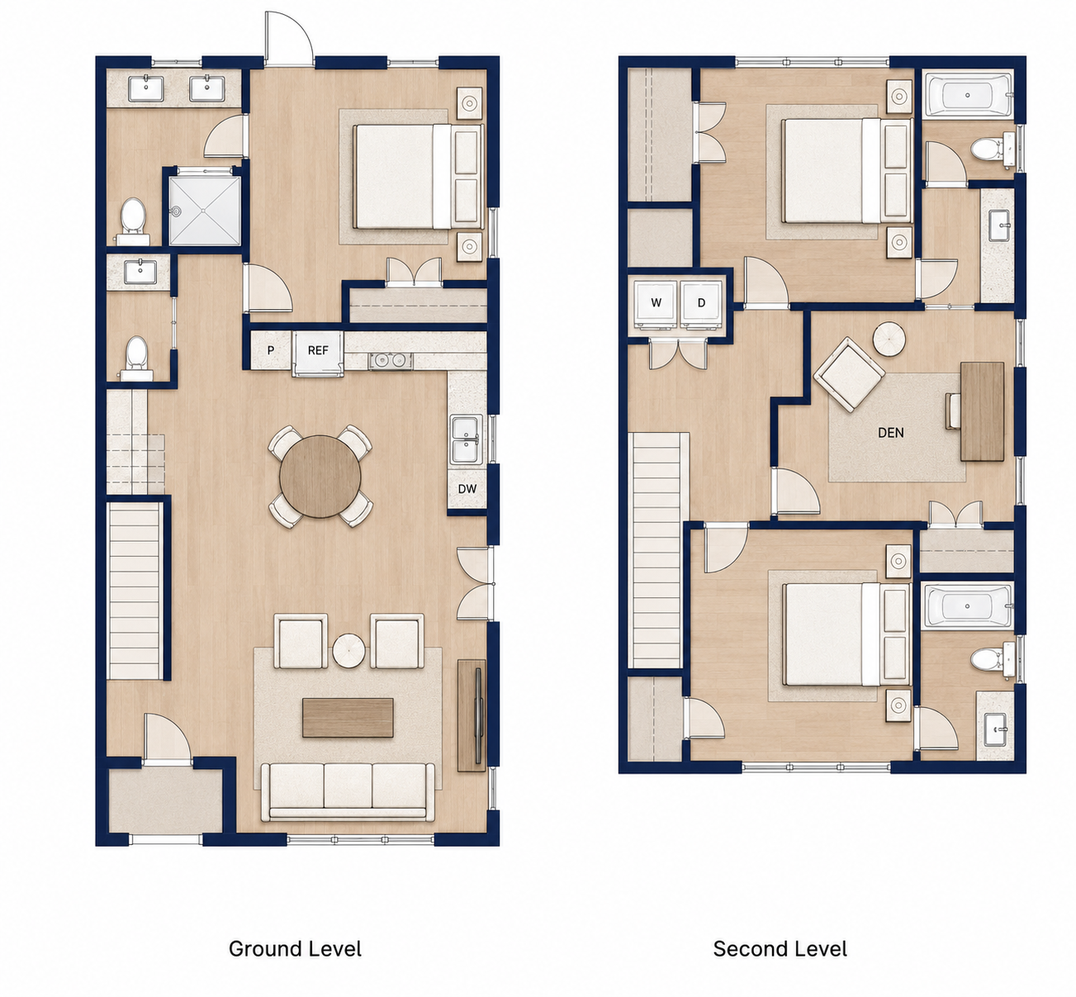
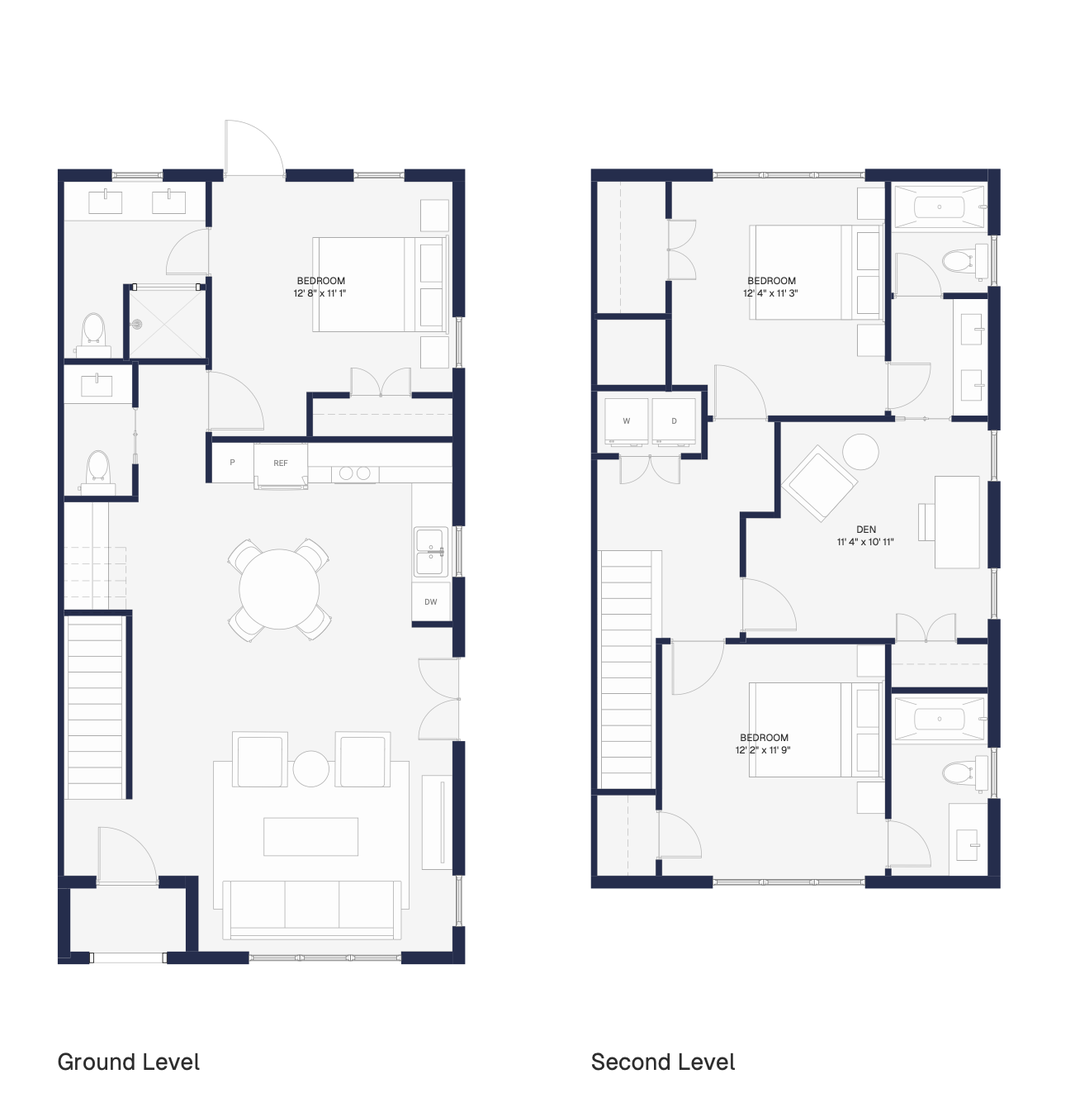
Replace all floor plans with new designs; add illustration disclaimers
- Bragg Brownstones: new Ground/Main/Upper level plans (watermark cropped,
  converted to JPEG); disclaimer added below each floor plan slide
- Judd Cottages: new 2BR/3BR/4BR plans for all levels (Cottage B/A/C);
  watermark cropped, converted to JPEG; disclaimer added
- Richland Village Phase 3: new 2BR/3BR/4BR combined floor plan images;
  disclaimer added below each plan
- Floorplan detail pages (Cotswold/Windsor/Kensington): restructured to
  show combined floor plans; Ashford/Pemberton: disclaimer added

diff --git a/judd-cottages.html b/judd-cottages.html
@@ -29,7 +29,7 @@
 .jFpLevel{display:none;justify-content:center}
 .jFpLevel.active{display:flex}
 .jFpLevel img{max-width:100%;max-height:500px;object-fit:contain}
-</style><style>.floatWidget{position:fixed;right:22px;bottom:22px;z-index:300;display:flex;flex-direction:column;align-items:flex-end;gap:8px}.fwToggle{width:36px;height:36px;border-radius:10px;background:#fff;border:1px solid #ddd;box-shadow:0 2px 10px rgba(0,0,0,.14);display:flex;align-items:center;justify-content:center;cursor:pointer;transition:background .15s}.fwToggle:hover{background:#f5f2ee}.fwToggle svg{transition:transform .28s}.fwToggle.open svg{transform:rotate(180deg)}.floatWidgetPanel{background:#fff;border-radius:16px;box-shadow:0 10px 40px rgba(0,0,0,.18),0 2px 8px rgba(0,0,0,.08);width:236px;overflow:hidden;transform-origin:bottom right;transition:opacity .22s ease,transform .22s ease}.floatWidgetPanel.hidden{opacity:0;pointer-events:none;transform:scale(.93) translateY(10px)}.fwBtnGroup{display:flex;flex-direction:column}.fwBtn{display:flex;align-items:center;gap:12px;padding:13px 16px;background:#fff;border:none;border-top:1px solid #f0ece5;cursor:pointer;font-family:Inter,system-ui,sans-serif;text-align:left;width:100%;text-decoration:none;transition:background .15s;box-sizing:border-box}.fwBtn:first-child{border-top:none}.fwBtn:hover{background:#faf8f5}.fwBtn.chat{background:#d96f20;border-top:none}.fwBtn.chat:hover{background:#c46118}.fwIcon{width:36px;height:36px;border-radius:9px;display:flex;align-items:center;justify-content:center;flex-shrink:0}.fwBtn.chat .fwIcon{background:rgba(255,255,255,.22);color:#fff}.fwBtn.tour .fwIcon{background:#f0ece5;color:#d96f20}.fwBtn.call .fwIcon{background:#f0ece5;color:#061d2b}.fwBtnText{flex:1;line-height:1.25}.fwBtnText strong{display:block;font-size:13.5px;font-weight:700;color:#061d2b}.fwBtn.chat .fwBtnText strong{color:#fff}.fwBtnText em{display:block;font-size:11.5px;font-style:normal;color:#888;margin-top:1px}.fwBtn.chat .fwBtnText em{color:rgba(255,255,255,.75)}.fwArrow{font-size:17px;color:#bbb;margin-left:4px;line-height:1}.fwBtn.chat .fwArrow{color:rgba(255,255,255,.7)}</style>
+.fpDisclaimer{font-size:11px;color:#9aa3ab;text-align:center;margin:8px 0 0;font-style:italic;letter-spacing:.02em}</style><style>.floatWidget{position:fixed;right:22px;bottom:22px;z-index:300;display:flex;flex-direction:column;align-items:flex-end;gap:8px}.fwToggle{width:36px;height:36px;border-radius:10px;background:#fff;border:1px solid #ddd;box-shadow:0 2px 10px rgba(0,0,0,.14);display:flex;align-items:center;justify-content:center;cursor:pointer;transition:background .15s}.fwToggle:hover{background:#f5f2ee}.fwToggle svg{transition:transform .28s}.fwToggle.open svg{transform:rotate(180deg)}.floatWidgetPanel{background:#fff;border-radius:16px;box-shadow:0 10px 40px rgba(0,0,0,.18),0 2px 8px rgba(0,0,0,.08);width:236px;overflow:hidden;transform-origin:bottom right;transition:opacity .22s ease,transform .22s ease}.floatWidgetPanel.hidden{opacity:0;pointer-events:none;transform:scale(.93) translateY(10px)}.fwBtnGroup{display:flex;flex-direction:column}.fwBtn{display:flex;align-items:center;gap:12px;padding:13px 16px;background:#fff;border:none;border-top:1px solid #f0ece5;cursor:pointer;font-family:Inter,system-ui,sans-serif;text-align:left;width:100%;text-decoration:none;transition:background .15s;box-sizing:border-box}.fwBtn:first-child{border-top:none}.fwBtn:hover{background:#faf8f5}.fwBtn.chat{background:#d96f20;border-top:none}.fwBtn.chat:hover{background:#c46118}.fwIcon{width:36px;height:36px;border-radius:9px;display:flex;align-items:center;justify-content:center;flex-shrink:0}.fwBtn.chat .fwIcon{background:rgba(255,255,255,.22);color:#fff}.fwBtn.tour .fwIcon{background:#f0ece5;color:#d96f20}.fwBtn.call .fwIcon{background:#f0ece5;color:#061d2b}.fwBtnText{flex:1;line-height:1.25}.fwBtnText strong{display:block;font-size:13.5px;font-weight:700;color:#061d2b}.fwBtn.chat .fwBtnText strong{color:#fff}.fwBtnText em{display:block;font-size:11.5px;font-style:normal;color:#888;margin-top:1px}.fwBtn.chat .fwBtnText em{color:rgba(255,255,255,.75)}.fwArrow{font-size:17px;color:#bbb;margin-left:4px;line-height:1}.fwBtn.chat .fwArrow{color:rgba(255,255,255,.7)}</style>
 <style>
 /* Mobile widget — start closed */
 @media(max-width:800px){
@@ -116,8 +116,8 @@
           <button class="jFpLevelTab" data-level="1">Upper</button>
         </div>
         <div class="jFpLevels">
-          <div class="jFpLevel active"><img src="assets/judd-2bd-lower.png" alt="2 Bedroom Lower Floor"/></div>
-          <div class="jFpLevel"><img src="assets/judd-2bd-upper.png" alt="2 Bedroom Upper Floor"/></div>
+          <div class="jFpLevel active"><img src="assets/judd-2bd-lower.jpg" alt="2 Bedroom Lower Floor"/></div>
+          <div class="jFpLevel"><img src="assets/judd-2bd-upper.jpg" alt="2 Bedroom Upper Floor"/></div>
         </div>
       </div>
       <div class="jFpPlan">
@@ -126,8 +126,8 @@
           <button class="jFpLevelTab" data-level="1">Upper</button>
         </div>
         <div class="jFpLevels">
-          <div class="jFpLevel active"><img src="assets/judd-3bd-lower.png" alt="3 Bedroom Lower Floor"/></div>
-          <div class="jFpLevel"><img src="assets/judd-3bd-upper.png" alt="3 Bedroom Upper Floor"/></div>
+          <div class="jFpLevel active"><img src="assets/judd-3bd-lower.jpg" alt="3 Bedroom Lower Floor"/></div>
+          <div class="jFpLevel"><img src="assets/judd-3bd-upper.jpg" alt="3 Bedroom Upper Floor"/></div>
         </div>
       </div>
       <div class="jFpPlan">
@@ -136,12 +136,13 @@
           <button class="jFpLevelTab" data-level="1">Upper</button>
         </div>
         <div class="jFpLevels">
-          <div class="jFpLevel active"><img src="assets/judd-3bdb-lower.png" alt="4 Bedroom Lower Floor"/></div>
-          <div class="jFpLevel"><img src="assets/judd-3bdb-upper.png" alt="4 Bedroom Upper Floor"/></div>
+          <div class="jFpLevel active"><img src="assets/judd-3bdb-lower.jpg" alt="4 Bedroom Lower Floor"/></div>
+          <div class="jFpLevel"><img src="assets/judd-3bdb-upper.jpg" alt="4 Bedroom Upper Floor"/></div>
         </div>
       </div>
     </div>
   </div>
+  <p class="fpDisclaimer">For illustration purposes only.</p>
   <button class="fpCta" data-open-modal="" style="cursor:pointer;font-family:inherit">Apply Now</button>
   <script>
   (function(){

diff --git a/bragg-brownstones.html b/bragg-brownstones.html
@@ -51,7 +51,7 @@
 .commDetail span:last-child{color:#fff;font-weight:600}
 .commCardNote{margin-top:22px;padding-top:18px;border-top:1px solid rgba(255,255,255,.1);font-size:11px;color:rgba(255,255,255,.4);line-height:1.6}
 @media(max-width:860px){.commBandInner{grid-template-columns:1fr}.commCard{margin-top:0}}
-</style><style>.floatWidget{position:fixed;right:22px;bottom:22px;z-index:300;display:flex;flex-direction:column;align-items:flex-end;gap:8px}.fwToggle{width:36px;height:36px;border-radius:10px;background:#fff;border:1px solid #ddd;box-shadow:0 2px 10px rgba(0,0,0,.14);display:flex;align-items:center;justify-content:center;cursor:pointer;transition:background .15s}.fwToggle:hover{background:#f5f2ee}.fwToggle svg{transition:transform .28s}.fwToggle.open svg{transform:rotate(180deg)}.floatWidgetPanel{background:#fff;border-radius:16px;box-shadow:0 10px 40px rgba(0,0,0,.18),0 2px 8px rgba(0,0,0,.08);width:236px;overflow:hidden;transform-origin:bottom right;transition:opacity .22s ease,transform .22s ease}.floatWidgetPanel.hidden{opacity:0;pointer-events:none;transform:scale(.93) translateY(10px)}.fwBtnGroup{display:flex;flex-direction:column}.fwBtn{display:flex;align-items:center;gap:12px;padding:13px 16px;background:#fff;border:none;border-top:1px solid #f0ece5;cursor:pointer;font-family:Inter,system-ui,sans-serif;text-align:left;width:100%;text-decoration:none;transition:background .15s;box-sizing:border-box}.fwBtn:first-child{border-top:none}.fwBtn:hover{background:#faf8f5}.fwBtn.chat{background:#d96f20;border-top:none}.fwBtn.chat:hover{background:#c46118}.fwIcon{width:36px;height:36px;border-radius:9px;display:flex;align-items:center;justify-content:center;flex-shrink:0}.fwBtn.chat .fwIcon{background:rgba(255,255,255,.22);color:#fff}.fwBtn.tour .fwIcon{background:#f0ece5;color:#d96f20}.fwBtn.call .fwIcon{background:#f0ece5;color:#061d2b}.fwBtnText{flex:1;line-height:1.25}.fwBtnText strong{display:block;font-size:13.5px;font-weight:700;color:#061d2b}.fwBtn.chat .fwBtnText strong{color:#fff}.fwBtnText em{display:block;font-size:11.5px;font-style:normal;color:#888;margin-top:1px}.fwBtn.chat .fwBtnText em{color:rgba(255,255,255,.75)}.fwArrow{font-size:17px;color:#bbb;margin-left:4px;line-height:1}.fwBtn.chat .fwArrow{color:rgba(255,255,255,.7)}</style>
+.fpDisclaimer{font-size:11px;color:#9aa3ab;text-align:center;margin:8px 0 0;font-style:italic;letter-spacing:.02em}</style><style>.floatWidget{position:fixed;right:22px;bottom:22px;z-index:300;display:flex;flex-direction:column;align-items:flex-end;gap:8px}.fwToggle{width:36px;height:36px;border-radius:10px;background:#fff;border:1px solid #ddd;box-shadow:0 2px 10px rgba(0,0,0,.14);display:flex;align-items:center;justify-content:center;cursor:pointer;transition:background .15s}.fwToggle:hover{background:#f5f2ee}.fwToggle svg{transition:transform .28s}.fwToggle.open svg{transform:rotate(180deg)}.floatWidgetPanel{background:#fff;border-radius:16px;box-shadow:0 10px 40px rgba(0,0,0,.18),0 2px 8px rgba(0,0,0,.08);width:236px;overflow:hidden;transform-origin:bottom right;transition:opacity .22s ease,transform .22s ease}.floatWidgetPanel.hidden{opacity:0;pointer-events:none;transform:scale(.93) translateY(10px)}.fwBtnGroup{display:flex;flex-direction:column}.fwBtn{display:flex;align-items:center;gap:12px;padding:13px 16px;background:#fff;border:none;border-top:1px solid #f0ece5;cursor:pointer;font-family:Inter,system-ui,sans-serif;text-align:left;width:100%;text-decoration:none;transition:background .15s;box-sizing:border-box}.fwBtn:first-child{border-top:none}.fwBtn:hover{background:#faf8f5}.fwBtn.chat{background:#d96f20;border-top:none}.fwBtn.chat:hover{background:#c46118}.fwIcon{width:36px;height:36px;border-radius:9px;display:flex;align-items:center;justify-content:center;flex-shrink:0}.fwBtn.chat .fwIcon{background:rgba(255,255,255,.22);color:#fff}.fwBtn.tour .fwIcon{background:#f0ece5;color:#d96f20}.fwBtn.call .fwIcon{background:#f0ece5;color:#061d2b}.fwBtnText{flex:1;line-height:1.25}.fwBtnText strong{display:block;font-size:13.5px;font-weight:700;color:#061d2b}.fwBtn.chat .fwBtnText strong{color:#fff}.fwBtnText em{display:block;font-size:11.5px;font-style:normal;color:#888;margin-top:1px}.fwBtn.chat .fwBtnText em{color:rgba(255,255,255,.75)}.fwArrow{font-size:17px;color:#bbb;margin-left:4px;line-height:1}.fwBtn.chat .fwArrow{color:rgba(255,255,255,.7)}</style>
 <style>
 /* Mobile widget — start closed */
 @media(max-width:800px){
@@ -129,15 +129,15 @@
     <div class="fpTrack">
       <div class="fpSlide">
         <img src="assets/bragg-floorplan-ground.jpg" alt="Bragg Avenue Brownstones ground level floor plan"/>
-        <div class="fpLabel">Ground Level</div>
+        <div class="fpLabel">Ground Level</div><p class="fpDisclaimer">For illustration purposes only.</p>
       </div>
       <div class="fpSlide">
         <img src="assets/bragg-floorplan-main.jpg" alt="Bragg Avenue Brownstones main level floor plan"/>
-        <div class="fpLabel">Main Level</div>
+        <div class="fpLabel">Main Level</div><p class="fpDisclaimer">For illustration purposes only.</p>
       </div>
       <div class="fpSlide">
         <img src="assets/bragg-floorplan-upper.jpg" alt="Bragg Avenue Brownstones upper level floor plan"/>
-        <div class="fpLabel">Upper Level</div>
+        <div class="fpLabel">Upper Level</div><p class="fpDisclaimer">For illustration purposes only.</p>
       </div>
     </div>
   </div>

diff --git a/floorplan-cotswold.html b/floorplan-cotswold.html
@@ -53,7 +53,7 @@
     .copyright{font-size:11px;opacity:.5;margin-top:16px;padding-top:16px;border-top:1px solid rgba(255,255,255,.12)}
     @media(max-width:700px){.planGrid{grid-template-columns:1fr 1fr}.detailsBlock{flex-direction:column}.fpImageWrap{padding:16px;min-height:340px}}
     @media(max-width:480px){.planGrid{grid-template-columns:1fr}}
-  </style>
+  .fpDisclaimer{font-size:11px;color:#9aa3ab;text-align:center;margin:8px 0 0;font-style:italic;letter-spacing:.02em}</style>
 <style>.floatWidget{position:fixed;right:22px;bottom:22px;z-index:300;display:flex;flex-direction:column;align-items:flex-end;gap:8px}.fwToggle{width:36px;height:36px;border-radius:10px;background:#fff;border:1px solid #ddd;box-shadow:0 2px 10px rgba(0,0,0,.14);display:flex;align-items:center;justify-content:center;cursor:pointer;transition:background .15s}.fwToggle:hover{background:#f5f2ee}.fwToggle svg{transition:transform .28s}.fwToggle.open svg{transform:rotate(180deg)}.floatWidgetPanel{background:#fff;border-radius:16px;box-shadow:0 10px 40px rgba(0,0,0,.18),0 2px 8px rgba(0,0,0,.08);width:236px;overflow:hidden;transform-origin:bottom right;transition:opacity .22s ease,transform .22s ease}.floatWidgetPanel.hidden{opacity:0;pointer-events:none;transform:scale(.93) translateY(10px)}.fwBtnGroup{display:flex;flex-direction:column}.fwBtn{display:flex;align-items:center;gap:12px;padding:13px 16px;background:#fff;border:none;border-top:1px solid #f0ece5;cursor:pointer;font-family:Inter,system-ui,sans-serif;text-align:left;width:100%;text-decoration:none;transition:background .15s;box-sizing:border-box}.fwBtn:first-child{border-top:none}.fwBtn:hover{background:#faf8f5}.fwBtn.chat{background:#d96f20;border-top:none}.fwBtn.chat:hover{background:#c46118}.fwIcon{width:36px;height:36px;border-radius:9px;display:flex;align-items:center;justify-content:center;flex-shrink:0}.fwBtn.chat .fwIcon{background:rgba(255,255,255,.22);color:#fff}.fwBtn.tour .fwIcon{background:#f0ece5;color:#d96f20}.fwBtn.call .fwIcon{background:#f0ece5;color:#061d2b}.fwBtnText{flex:1;line-height:1.25}.fwBtnText strong{display:block;font-size:13.5px;font-weight:700;color:#061d2b}.fwBtn.chat .fwBtnText strong{color:#fff}.fwBtnText em{display:block;font-size:11.5px;font-style:normal;color:#888;margin-top:1px}.fwBtn.chat .fwBtnText em{color:rgba(255,255,255,.75)}.fwArrow{font-size:17px;color:#bbb;margin-left:4px;line-height:1}.fwBtn.chat .fwArrow{color:rgba(255,255,255,.7)}</style>
 <style>
 /* Mobile widget — start closed */
@@ -132,16 +132,7 @@
   @media(max-width:700px){.fpSideBySide{grid-template-columns:1fr;gap:40px}}
 </style>
   <main class="main">
-    <div class="fpSideBySide">
-      <div class="fpSbsItem">
-        <img src="assets/cotswold-ground.png" alt="2 Bedroom ground level floor plan"/>
-        <span class="fpSbsItemLabel">Ground Level</span>
-      </div>
-      <div class="fpSbsItem">
-        <img src="assets/cotswold-second.png" alt="2 Bedroom second level floor plan"/>
-        <span class="fpSbsItemLabel">Second Level</span>
-      </div>
-    </div>
+    <div style="background:var(--cream);padding:40px 5%;text-align:center;border-radius:2px"><img src="assets/phase3-floorplan-2br.png" alt="2 Bedroom floor plan" style="max-width:900px;width:100%;height:auto;display:block;margin:0 auto"/><p class="fpDisclaimer">For illustration purposes only.</p></div>
 
     <div class="detailsBlock">
       <div class="detailsLeft">

diff --git a/floorplan-kensington.html b/floorplan-kensington.html
@@ -53,7 +53,7 @@
     .copyright{font-size:11px;opacity:.5;margin-top:16px;padding-top:16px;border-top:1px solid rgba(255,255,255,.12)}
     @media(max-width:700px){.planGrid{grid-template-columns:1fr 1fr}.detailsBlock{flex-direction:column}.fpImageWrap{padding:16px;min-height:340px}}
     @media(max-width:480px){.planGrid{grid-template-columns:1fr}}
-  </style>
+  .fpDisclaimer{font-size:11px;color:#9aa3ab;text-align:center;margin:8px 0 0;font-style:italic;letter-spacing:.02em}</style>
 <style>.floatWidget{position:fixed;right:22px;bottom:22px;z-index:300;display:flex;flex-direction:column;align-items:flex-end;gap:8px}.fwToggle{width:36px;height:36px;border-radius:10px;background:#fff;border:1px solid #ddd;box-shadow:0 2px 10px rgba(0,0,0,.14);display:flex;align-items:center;justify-content:center;cursor:pointer;transition:background .15s}.fwToggle:hover{background:#f5f2ee}.fwToggle svg{transition:transform .28s}.fwToggle.open svg{transform:rotate(180deg)}.floatWidgetPanel{background:#fff;border-radius:16px;box-shadow:0 10px 40px rgba(0,0,0,.18),0 2px 8px rgba(0,0,0,.08);width:236px;overflow:hidden;transform-origin:bottom right;transition:opacity .22s ease,transform .22s ease}.floatWidgetPanel.hidden{opacity:0;pointer-events:none;transform:scale(.93) translateY(10px)}.fwBtnGroup{display:flex;flex-direction:column}.fwBtn{display:flex;align-items:center;gap:12px;padding:13px 16px;background:#fff;border:none;border-top:1px solid #f0ece5;cursor:pointer;font-family:Inter,system-ui,sans-serif;text-align:left;width:100%;text-decoration:none;transition:background .15s;box-sizing:border-box}.fwBtn:first-child{border-top:none}.fwBtn:hover{background:#faf8f5}.fwBtn.chat{background:#d96f20;border-top:none}.fwBtn.chat:hover{background:#c46118}.fwIcon{width:36px;height:36px;border-radius:9px;display:flex;align-items:center;justify-content:center;flex-shrink:0}.fwBtn.chat .fwIcon{background:rgba(255,255,255,.22);color:#fff}.fwBtn.tour .fwIcon{background:#f0ece5;color:#d96f20}.fwBtn.call .fwIcon{background:#f0ece5;color:#061d2b}.fwBtnText{flex:1;line-height:1.25}.fwBtnText strong{display:block;font-size:13.5px;font-weight:700;color:#061d2b}.fwBtn.chat .fwBtnText strong{color:#fff}.fwBtnText em{display:block;font-size:11.5px;font-style:normal;color:#888;margin-top:1px}.fwBtn.chat .fwBtnText em{color:rgba(255,255,255,.75)}.fwArrow{font-size:17px;color:#bbb;margin-left:4px;line-height:1}.fwBtn.chat .fwArrow{color:rgba(255,255,255,.7)}</style>
 <style>
 /* Mobile widget — start closed */
@@ -132,16 +132,7 @@
   </div>
 
   <main class="main">
-    <div class="fpSideBySide">
-      <div class="fpSbsItem">
-        <img src="assets/kensington-ground.png" alt="4 Bedroom ground level floor plan"/>
-        <span class="fpSbsItemLabel">Ground Level</span>
-      </div>
-      <div class="fpSbsItem">
-        <img src="assets/kensington-second.png" alt="4 Bedroom second level floor plan"/>
-        <span class="fpSbsItemLabel">Second Level</span>
-      </div>
-    </div>
+    <div style="background:var(--cream);padding:40px 5%;text-align:center;border-radius:2px"><img src="assets/phase3-floorplan-4br.png" alt="4 Bedroom floor plan" style="max-width:900px;width:100%;height:auto;display:block;margin:0 auto"/><p class="fpDisclaimer">For illustration purposes only.</p></div>
 
     <div class="detailsBlock">
       <div class="detailsLeft">

diff --git a/floorplan-windsor.html b/floorplan-windsor.html
@@ -53,7 +53,7 @@
     .copyright{font-size:11px;opacity:.5;margin-top:16px;padding-top:16px;border-top:1px solid rgba(255,255,255,.12)}
     @media(max-width:700px){.planGrid{grid-template-columns:1fr 1fr}.detailsBlock{flex-direction:column}.fpImageWrap{padding:16px;min-height:340px}}
     @media(max-width:480px){.planGrid{grid-template-columns:1fr}}
-  </style>
+  .fpDisclaimer{font-size:11px;color:#9aa3ab;text-align:center;margin:8px 0 0;font-style:italic;letter-spacing:.02em}</style>
 <style>.floatWidget{position:fixed;right:22px;bottom:22px;z-index:300;display:flex;flex-direction:column;align-items:flex-end;gap:8px}.fwToggle{width:36px;height:36px;border-radius:10px;background:#fff;border:1px solid #ddd;box-shadow:0 2px 10px rgba(0,0,0,.14);display:flex;align-items:center;justify-content:center;cursor:pointer;transition:background .15s}.fwToggle:hover{background:#f5f2ee}.fwToggle svg{transition:transform .28s}.fwToggle.open svg{transform:rotate(180deg)}.floatWidgetPanel{background:#fff;border-radius:16px;box-shadow:0 10px 40px rgba(0,0,0,.18),0 2px 8px rgba(0,0,0,.08);width:236px;overflow:hidden;transform-origin:bottom right;transition:opacity .22s ease,transform .22s ease}.floatWidgetPanel.hidden{opacity:0;pointer-events:none;transform:scale(.93) translateY(10px)}.fwBtnGroup{display:flex;flex-direction:column}.fwBtn{display:flex;align-items:center;gap:12px;padding:13px 16px;background:#fff;border:none;border-top:1px solid #f0ece5;cursor:pointer;font-family:Inter,system-ui,sans-serif;text-align:left;width:100%;text-decoration:none;transition:background .15s;box-sizing:border-box}.fwBtn:first-child{border-top:none}.fwBtn:hover{background:#faf8f5}.fwBtn.chat{background:#d96f20;border-top:none}.fwBtn.chat:hover{background:#c46118}.fwIcon{width:36px;height:36px;border-radius:9px;display:flex;align-items:center;justify-content:center;flex-shrink:0}.fwBtn.chat .fwIcon{background:rgba(255,255,255,.22);color:#fff}.fwBtn.tour .fwIcon{background:#f0ece5;color:#d96f20}.fwBtn.call .fwIcon{background:#f0ece5;color:#061d2b}.fwBtnText{flex:1;line-height:1.25}.fwBtnText strong{display:block;font-size:13.5px;font-weight:700;color:#061d2b}.fwBtn.chat .fwBtnText strong{color:#fff}.fwBtnText em{display:block;font-size:11.5px;font-style:normal;color:#888;margin-top:1px}.fwBtn.chat .fwBtnText em{color:rgba(255,255,255,.75)}.fwArrow{font-size:17px;color:#bbb;margin-left:4px;line-height:1}.fwBtn.chat .fwArrow{color:rgba(255,255,255,.7)}</style>
 <style>
 /* Mobile widget — start closed */
@@ -132,16 +132,7 @@
   </div>
 
   <main class="main">
-    <div class="fpSideBySide">
-      <div class="fpSbsItem">
-        <img src="assets/windsor-ground.png" alt="3 Bedroom ground level floor plan"/>
-        <span class="fpSbsItemLabel">Ground Level</span>
-      </div>
-      <div class="fpSbsItem">
-        <img src="assets/windsor-second.png" alt="3 Bedroom second level floor plan"/>
-        <span class="fpSbsItemLabel">Second Level</span>
-      </div>
-    </div>
+    <div style="background:var(--cream);padding:40px 5%;text-align:center;border-radius:2px"><img src="assets/phase3-floorplan-3br.png" alt="3 Bedroom floor plan" style="max-width:900px;width:100%;height:auto;display:block;margin:0 auto"/><p class="fpDisclaimer">For illustration purposes only.</p></div>
 
     <div class="detailsBlock">
       <div class="detailsLeft">

diff --git a/floorplan-pemberton.html b/floorplan-pemberton.html
@@ -53,7 +53,7 @@
     .copyright{font-size:11px;opacity:.5;margin-top:16px;padding-top:16px;border-top:1px solid rgba(255,255,255,.12)}
     @media(max-width:700px){.planGrid{grid-template-columns:1fr 1fr}.detailsBlock{flex-direction:column}.fpImageWrap{padding:16px;min-height:340px}}
     @media(max-width:480px){.planGrid{grid-template-columns:1fr}}
-  </style>
+  .fpDisclaimer{font-size:11px;color:#9aa3ab;text-align:center;margin:8px 0 0;font-style:italic;letter-spacing:.02em}</style>
 <style>.floatWidget{position:fixed;right:22px;bottom:22px;z-index:300;display:flex;flex-direction:column;align-items:flex-end;gap:8px}.fwToggle{width:36px;height:36px;border-radius:10px;background:#fff;border:1px solid #ddd;box-shadow:0 2px 10px rgba(0,0,0,.14);display:flex;align-items:center;justify-content:center;cursor:pointer;transition:background .15s}.fwToggle:hover{background:#f5f2ee}.fwToggle svg{transition:transform .28s}.fwToggle.open svg{transform:rotate(180deg)}.floatWidgetPanel{background:#fff;border-radius:16px;box-shadow:0 10px 40px rgba(0,0,0,.18),0 2px 8px rgba(0,0,0,.08);width:236px;overflow:hidden;transform-origin:bottom right;transition:opacity .22s ease,transform .22s ease}.floatWidgetPanel.hidden{opacity:0;pointer-events:none;transform:scale(.93) translateY(10px)}.fwBtnGroup{display:flex;flex-direction:column}.fwBtn{display:flex;align-items:center;gap:12px;padding:13px 16px;background:#fff;border:none;border-top:1px solid #f0ece5;cursor:pointer;font-family:Inter,system-ui,sans-serif;text-align:left;width:100%;text-decoration:none;transition:background .15s;box-sizing:border-box}.fwBtn:first-child{border-top:none}.fwBtn:hover{background:#faf8f5}.fwBtn.chat{background:#d96f20;border-top:none}.fwBtn.chat:hover{background:#c46118}.fwIcon{width:36px;height:36px;border-radius:9px;display:flex;align-items:center;justify-content:center;flex-shrink:0}.fwBtn.chat .fwIcon{background:rgba(255,255,255,.22);color:#fff}.fwBtn.tour .fwIcon{background:#f0ece5;color:#d96f20}.fwBtn.call .fwIcon{background:#f0ece5;color:#061d2b}.fwBtnText{flex:1;line-height:1.25}.fwBtnText strong{display:block;font-size:13.5px;font-weight:700;color:#061d2b}.fwBtn.chat .fwBtnText strong{color:#fff}.fwBtnText em{display:block;font-size:11.5px;font-style:normal;color:#888;margin-top:1px}.fwBtn.chat .fwBtnText em{color:rgba(255,255,255,.75)}.fwArrow{font-size:17px;color:#bbb;margin-left:4px;line-height:1}.fwBtn.chat .fwArrow{color:rgba(255,255,255,.7)}</style>
 <style>
 /* Mobile widget — start closed */
@@ -128,6 +128,7 @@
     <div class="fpImageWrap">
       <img src="assets/bragg-floorplan-ground.jpg" alt="Bragg Brownstone ground level floor plan"/>
     </div>
+    <p class="fpDisclaimer">For illustration purposes only.</p>
 
     <div class="detailsBlock">
       <div class="detailsLeft">

diff --git a/floorplan-ashford.html b/floorplan-ashford.html
@@ -53,7 +53,7 @@
     .copyright{font-size:11px;opacity:.5;margin-top:16px;padding-top:16px;border-top:1px solid rgba(255,255,255,.12)}
     @media(max-width:700px){.planGrid{grid-template-columns:1fr 1fr}.detailsBlock{flex-direction:column}.fpImageWrap{padding:16px;min-height:340px}}
     @media(max-width:480px){.planGrid{grid-template-columns:1fr}}
-  </style>
+  .fpDisclaimer{font-size:11px;color:#9aa3ab;text-align:center;margin:8px 0 0;font-style:italic;letter-spacing:.02em}</style>
 <style>.floatWidget{position:fixed;right:22px;bottom:22px;z-index:300;display:flex;flex-direction:column;align-items:flex-end;gap:8px}.fwToggle{width:36px;height:36px;border-radius:10px;background:#fff;border:1px solid #ddd;box-shadow:0 2px 10px rgba(0,0,0,.14);display:flex;align-items:center;justify-content:center;cursor:pointer;transition:background .15s}.fwToggle:hover{background:#f5f2ee}.fwToggle svg{transition:transform .28s}.fwToggle.open svg{transform:rotate(180deg)}.floatWidgetPanel{background:#fff;border-radius:16px;box-shadow:0 10px 40px rgba(0,0,0,.18),0 2px 8px rgba(0,0,0,.08);width:236px;overflow:hidden;transform-origin:bottom right;transition:opacity .22s ease,transform .22s ease}.floatWidgetPanel.hidden{opacity:0;pointer-events:none;transform:scale(.93) translateY(10px)}.fwBtnGroup{display:flex;flex-direction:column}.fwBtn{display:flex;align-items:center;gap:12px;padding:13px 16px;background:#fff;border:none;border-top:1px solid #f0ece5;cursor:pointer;font-family:Inter,system-ui,sans-serif;text-align:left;width:100%;text-decoration:none;transition:background .15s;box-sizing:border-box}.fwBtn:first-child{border-top:none}.fwBtn:hover{background:#faf8f5}.fwBtn.chat{background:#d96f20;border-top:none}.fwBtn.chat:hover{background:#c46118}.fwIcon{width:36px;height:36px;border-radius:9px;display:flex;align-items:center;justify-content:center;flex-shrink:0}.fwBtn.chat .fwIcon{background:rgba(255,255,255,.22);color:#fff}.fwBtn.tour .fwIcon{background:#f0ece5;color:#d96f20}.fwBtn.call .fwIcon{background:#f0ece5;color:#061d2b}.fwBtnText{flex:1;line-height:1.25}.fwBtnText strong{display:block;font-size:13.5px;font-weight:700;color:#061d2b}.fwBtn.chat .fwBtnText strong{color:#fff}.fwBtnText em{display:block;font-size:11.5px;font-style:normal;color:#888;margin-top:1px}.fwBtn.chat .fwBtnText em{color:rgba(255,255,255,.75)}.fwArrow{font-size:17px;color:#bbb;margin-left:4px;line-height:1}.fwBtn.chat .fwArrow{color:rgba(255,255,255,.7)}</style>
 <style>
 /* Mobile widget — start closed */
@@ -128,6 +128,7 @@
     <div class="fpImageWrap">
       <img src="assets/bragg-floorplan-main.jpg" alt="Bragg Brownstone main level floor plan"/>
     </div>
+    <p class="fpDisclaimer">For illustration purposes only.</p>
 
     <div class="detailsBlock">
       <div class="detailsLeft">

diff --git a/richland-village-phase-3.html b/richland-village-phase-3.html
@@ -28,7 +28,7 @@
 @media(min-width:681px){
   .fpSlide{display:block!important}
 }
-.navSocial{display:flex;gap:10px;align-items:center;margin-left:6px}.navSocial a{color:#fff;opacity:.75;display:flex;align-items:center;line-height:1;transition:opacity .2s}.navSocial a:hover{opacity:1}.footerSocial{display:flex;gap:14px;margin-top:14px}.footerSocial a{color:#fff;opacity:.65;display:flex;align-items:center;line-height:1;transition:opacity .2s}.footerSocial a:hover{opacity:1}</style><style>
+.navSocial{display:flex;gap:10px;align-items:center;margin-left:6px}.navSocial a{color:#fff;opacity:.75;display:flex;align-items:center;line-height:1;transition:opacity .2s}.navSocial a:hover{opacity:1}.footerSocial{display:flex;gap:14px;margin-top:14px}.footerSocial a{color:#fff;opacity:.65;display:flex;align-items:center;line-height:1;transition:opacity .2s}.footerSocial a:hover{opacity:1}.fpDisclaimer{font-size:11px;color:#9aa3ab;text-align:center;margin:8px 0 0;font-style:italic;letter-spacing:.02em}</style><style>
 /* Mobile widget — start closed */
 @media(max-width:800px){
   .floatWidgetPanel{opacity:0!important;pointer-events:none!important;transform:scale(.93) translateY(10px)!important}
@@ -107,15 +107,15 @@
     <div class="fpTrack">
       <div class="fpSlide active" data-slide="0">
         <img src="assets/phase3-floorplan-2br.png" alt="2 Bedroom Townhome floor plan"/>
-        <div class="fpLabel">2 Bedroom Townhome</div>
+        <div class="fpLabel">2 Bedroom Townhome</div><p class="fpDisclaimer">For illustration purposes only.</p>
       </div>
       <div class="fpSlide" data-slide="1">
         <img src="assets/phase3-floorplan-3br.png" alt="3 Bedroom Townhome floor plan"/>
-        <div class="fpLabel">3 Bedroom Townhome</div>
+        <div class="fpLabel">3 Bedroom Townhome</div><p class="fpDisclaimer">For illustration purposes only.</p>
       </div>
       <div class="fpSlide" data-slide="2">
         <img src="assets/phase3-floorplan-4br.png" alt="4 Bedroom Townhome floor plan"/>
-        <div class="fpLabel">4 Bedroom Townhome</div>
+        <div class="fpLabel">4 Bedroom Townhome</div><p class="fpDisclaimer">For illustration purposes only.</p>
       </div>
     </div>
     <button class="fpArrow" id="fpNext" onclick="fpNav(1)" aria-label="Next">&#8250;</button>
